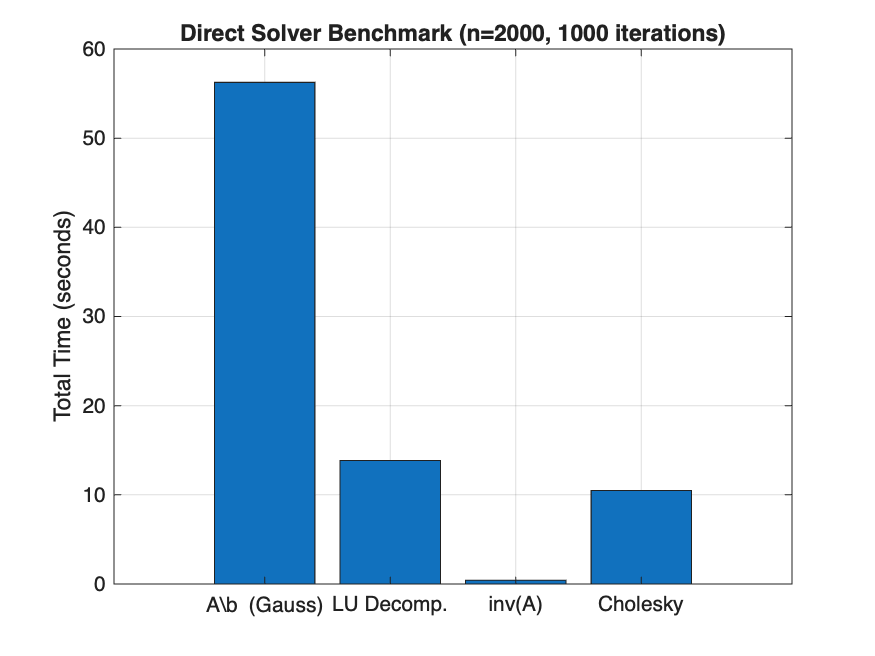
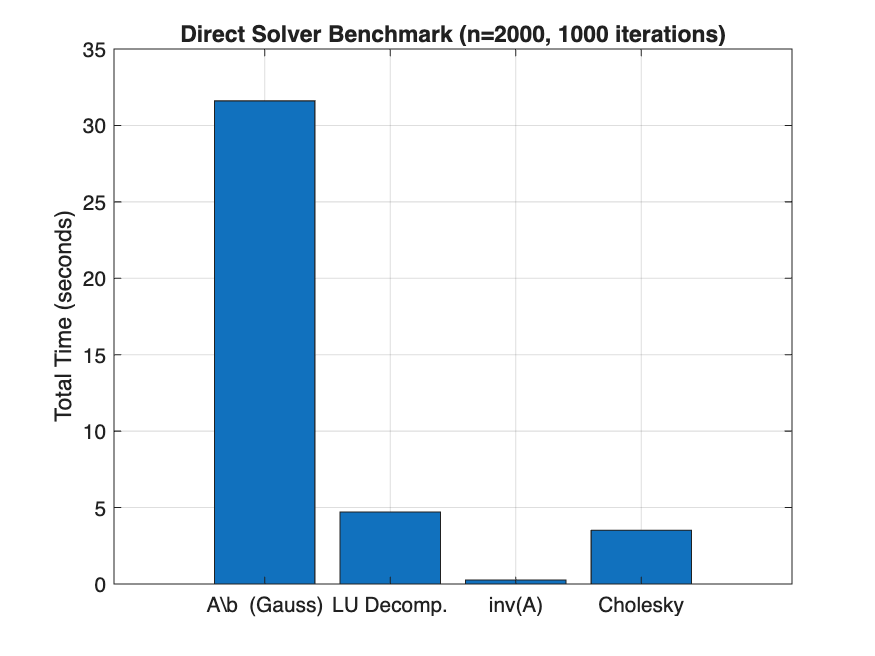
updated p1 solver part 1

diff --git a/homeworks/hw3/solvers/problem1_solver_p1.m b/homeworks/hw3/solvers/problem1_solver_p1.m
@@ -28,20 +28,20 @@ time_gauss = toc;
 
 % --- (b) LU Decomposition ---
 fprintf('  Benchmarking (b) LU Decomposition...\n');
-tic;
 [L, U, P] = lu(A); % Pre-compute factorization
+tic;
 for i = 1:iterations
     y_lu = L\(P*b);
     x_lu = U\y_lu;
 end
 time_lu = toc;
 
-% --- (c) Matrix Inverse (inv(A)) ---
-fprintf('  Benchmarking (c) Matrix Inverse...\n');
+% --- (c) Matrix Inverse (inv(A)) [Corrected Benchmark] ---
+fprintf('  Benchmarking (c) Matrix Inverse (SOLVE ONLY)...\n');
+A_inv = inv(A); % <--- O(n^3) setup OUTSIDE tic
 tic;
-A_inv = inv(A); % Pre-compute inverse
 for i = 1:iterations
-    x_inv = A_inv*b;
+    x_inv = A_inv*b; % <--- O(n^2) solve
 end
 time_inv = toc;
 
@@ -52,8 +52,9 @@ A_spd = A'*A;
 b_spd = randn(n, 1); % Create a new b for this system
 
 fprintf('  Benchmarking (d) Cholesky Decomposition...\n');
-tic;
+
 U_chol = chol(A_spd); % Pre-compute factorization
+tic;
 for i = 1:iterations
     y_chol = U_chol'\b_spd; 
     x_chol = U_chol\y_chol;
